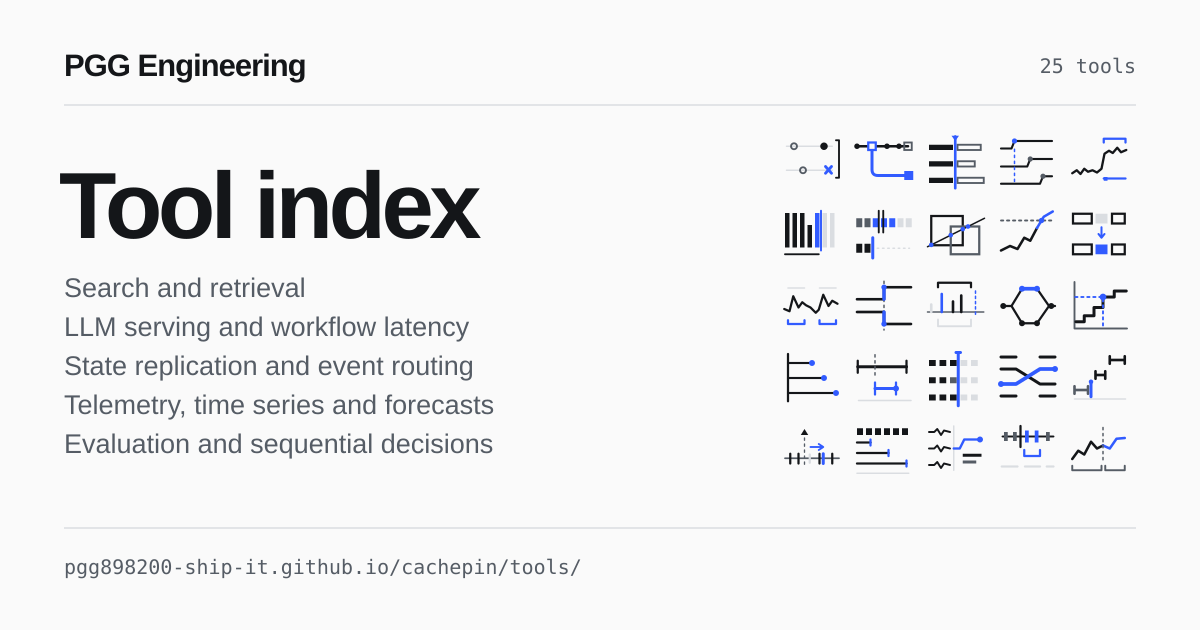
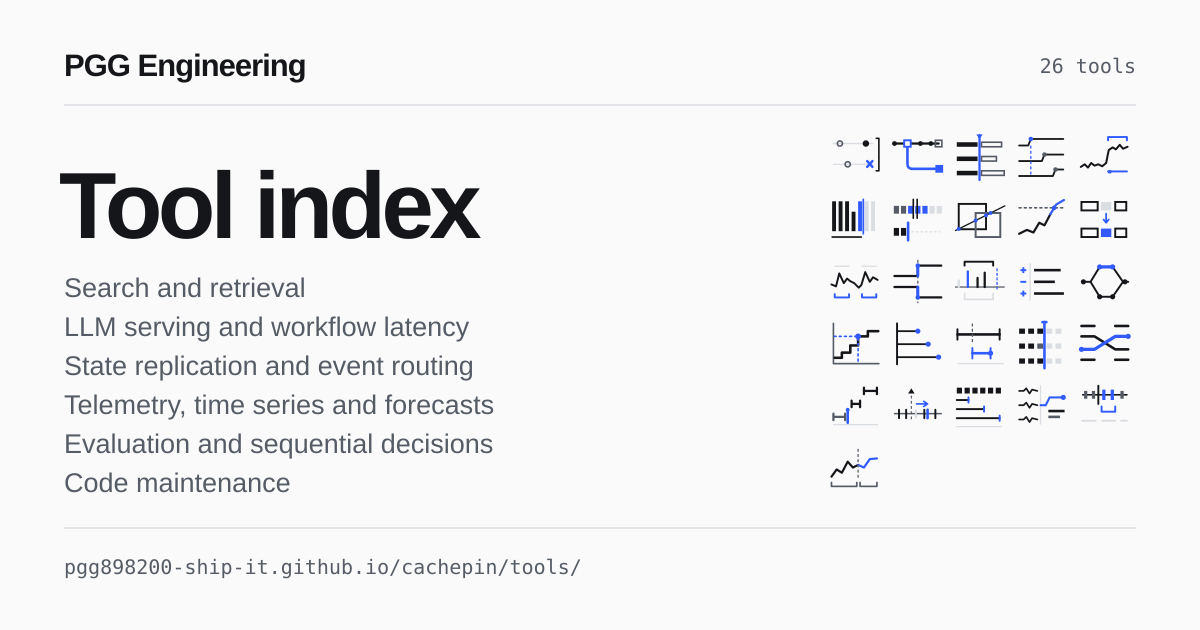
Publish Patchfleet Archive in the tool index and release feed

Changed region(s): [[0.6475, 0.2111, 0.9558, 0.7841], [0.0617, 0.754, 0.2467, 0.7841], [0.925, 0.2111, 0.9558, 0.2413]]

diff --git a/site/tools/index.html b/site/tools/index.html
@@ -7,11 +7,11 @@
 <meta name="description" content="Choose a PGG Engineering tool for search, inference, state replication, telemetry or evaluation. Browse practical examples and source code.">
 <link rel="canonical" href="https://pgg898200-ship-it.github.io/cachepin/tools/">
 <meta property="og:title" content="PGG Engineering · Tool index">
-<meta property="og:description" content="25 engineering tools. Find a task, try an example and inspect the source.">
+<meta property="og:description" content="26 engineering tools. Find a task, try an example and inspect the source.">
 <meta property="og:type" content="website">
 <meta property="og:url" content="https://pgg898200-ship-it.github.io/cachepin/tools/">
 <meta property="og:image" content="https://pgg898200-ship-it.github.io/cachepin/tools/cover.png">
-<meta property="og:image:alt" content="PGG Engineering’s visual index of 25 developer tools.">
+<meta property="og:image:alt" content="PGG Engineering’s visual index of 26 developer tools.">
 <meta property="og:image:width" content="1200">
 <meta property="og:image:height" content="630">
 <meta name="twitter:card" content="summary_large_image">
@@ -57,11 +57,12 @@
 <path d="M112 146H140" class="wire"/><circle cx="140" cy="146" r="4" fill="white" stroke="#315bff" stroke-width="2"/>
 </svg>
 <div class="trace-footer"><span id="readout" class="script-caption" aria-live="polite">4 writes → 3 rows across 2 pages</span><div role="group" aria-label="Select a catch-up page" class="paging" hidden><button type="button" data-view="all" aria-pressed="true">All</button><button type="button" data-view="first" aria-pressed="false">Page 1</button><button type="button" data-view="second" aria-pressed="false">Page 2</button></div></div></figure></section>
-<section class="index" aria-labelledby="index"><div class="index-head"><h2 id="index" tabindex="-1">Tool index</h2><span class="index-count">25 tools</span></div><div class="directory"><nav aria-label="Jump to a task"><h3>Browse by task</h3><ul><li><a href="#group-rankpatch">Search and retrieval</a></li>
+<section class="index" aria-labelledby="index"><div class="index-head"><h2 id="index" tabindex="-1">Tool index</h2><span class="index-count">26 tools</span></div><div class="directory"><nav aria-label="Jump to a task"><h3>Browse by task</h3><ul><li><a href="#group-rankpatch">Search and retrieval</a></li>
 <li><a href="#group-cachepin">LLM serving and workflow latency</a></li>
 <li><a href="#group-afterkey">State replication and event routing</a></li>
 <li><a href="#group-backfold">Telemetry, time series and forecasts</a></li>
-<li><a href="#group-cloture">Evaluation and sequential decisions</a></li></ul></nav><div><section class="group" aria-labelledby="group-rankpatch"><h3 id="group-rankpatch" tabindex="-1">Search and retrieval</h3><ul class="entries"><li class="entry" id="rankpatch"><article aria-labelledby="name-rankpatch">
+<li><a href="#group-cloture">Evaluation and sequential decisions</a></li>
+<li><a href="#group-patchfleet">Code maintenance</a></li></ul></nav><div><section class="group" aria-labelledby="group-rankpatch"><h3 id="group-rankpatch" tabindex="-1">Search and retrieval</h3><ul class="entries"><li class="entry" id="rankpatch"><article aria-labelledby="name-rankpatch">
   <div class="glyph"><svg xmlns="http://www.w3.org/2000/svg" viewBox="0 0 96 96" role="img" aria-label="Two document rows exchange positions after a source revises its ranking. The blue row moves upward.">
   <path d="M12 20H32 M64 20H84" fill="none" stroke="#141619" stroke-width="4" stroke-linejoin="round" stroke-linecap="round" />
   <path d="M12 72H32 M64 72H84" fill="none" stroke="#141619" stroke-width="4" stroke-linejoin="round" stroke-linecap="round" />
@@ -397,6 +398,15 @@
 </svg></div>
   <div class="entry-copy"><h4 id="name-eproc"><a href="https://github.com/pgg898200-ship-it/eproc">eproc</a></h4><p>Track evidence as individual or paired evaluation scores arrive.</p>
   <div class="links"><a href="https://pgg898200-ship-it.github.io/eproc/" aria-label="eproc — Open demo">Open demo</a><a href="https://github.com/pgg898200-ship-it/eproc" aria-label="eproc source">Source</a></div></div>
+</article></li></ul></section>
+<section class="group" aria-labelledby="group-patchfleet"><h3 id="group-patchfleet" tabindex="-1">Code maintenance</h3><ul class="entries"><li class="entry" id="patchfleet"><article aria-labelledby="name-patchfleet">
+  <div class="glyph"><svg xmlns="http://www.w3.org/2000/svg" viewBox="0 0 96 96" role="img" aria-label="Three patch lines are separated into a narrow marker column and their original code.">
+  <path d="M14 30h9m-4.5-4.5v9M14 48h9M14 66h9m-4.5-4.5v9" fill="none" stroke="#315BFF" stroke-width="3" />
+  <path d="M35 30h41M35 48h32M35 66h46" fill="none" stroke="#141619" stroke-width="4" />
+  <path d="M29 19v58" fill="none" stroke="#DADDE1" stroke-width="2" />
+</svg></div>
+  <div class="entry-copy"><h4 id="name-patchfleet"><a href="https://github.com/pgg898200-ship-it/backfold/tree/main/labs/patchfleet">Patchfleet</a></h4><p>Archive exact agent patches using their Git base.</p>
+  <div class="links"><a href="https://pgg898200-ship-it.github.io/backfold/patchfleet/#archive" aria-label="Patchfleet — Open demo">Open demo</a><a href="https://github.com/pgg898200-ship-it/backfold/tree/main/labs/patchfleet" aria-label="Patchfleet source">Source</a></div></div>
 </article></li></ul></section></div></div></section></main>
 <footer><span>PGG Engineering</span><a href="#top">Back to top ↑</a></footer>
 <script>
